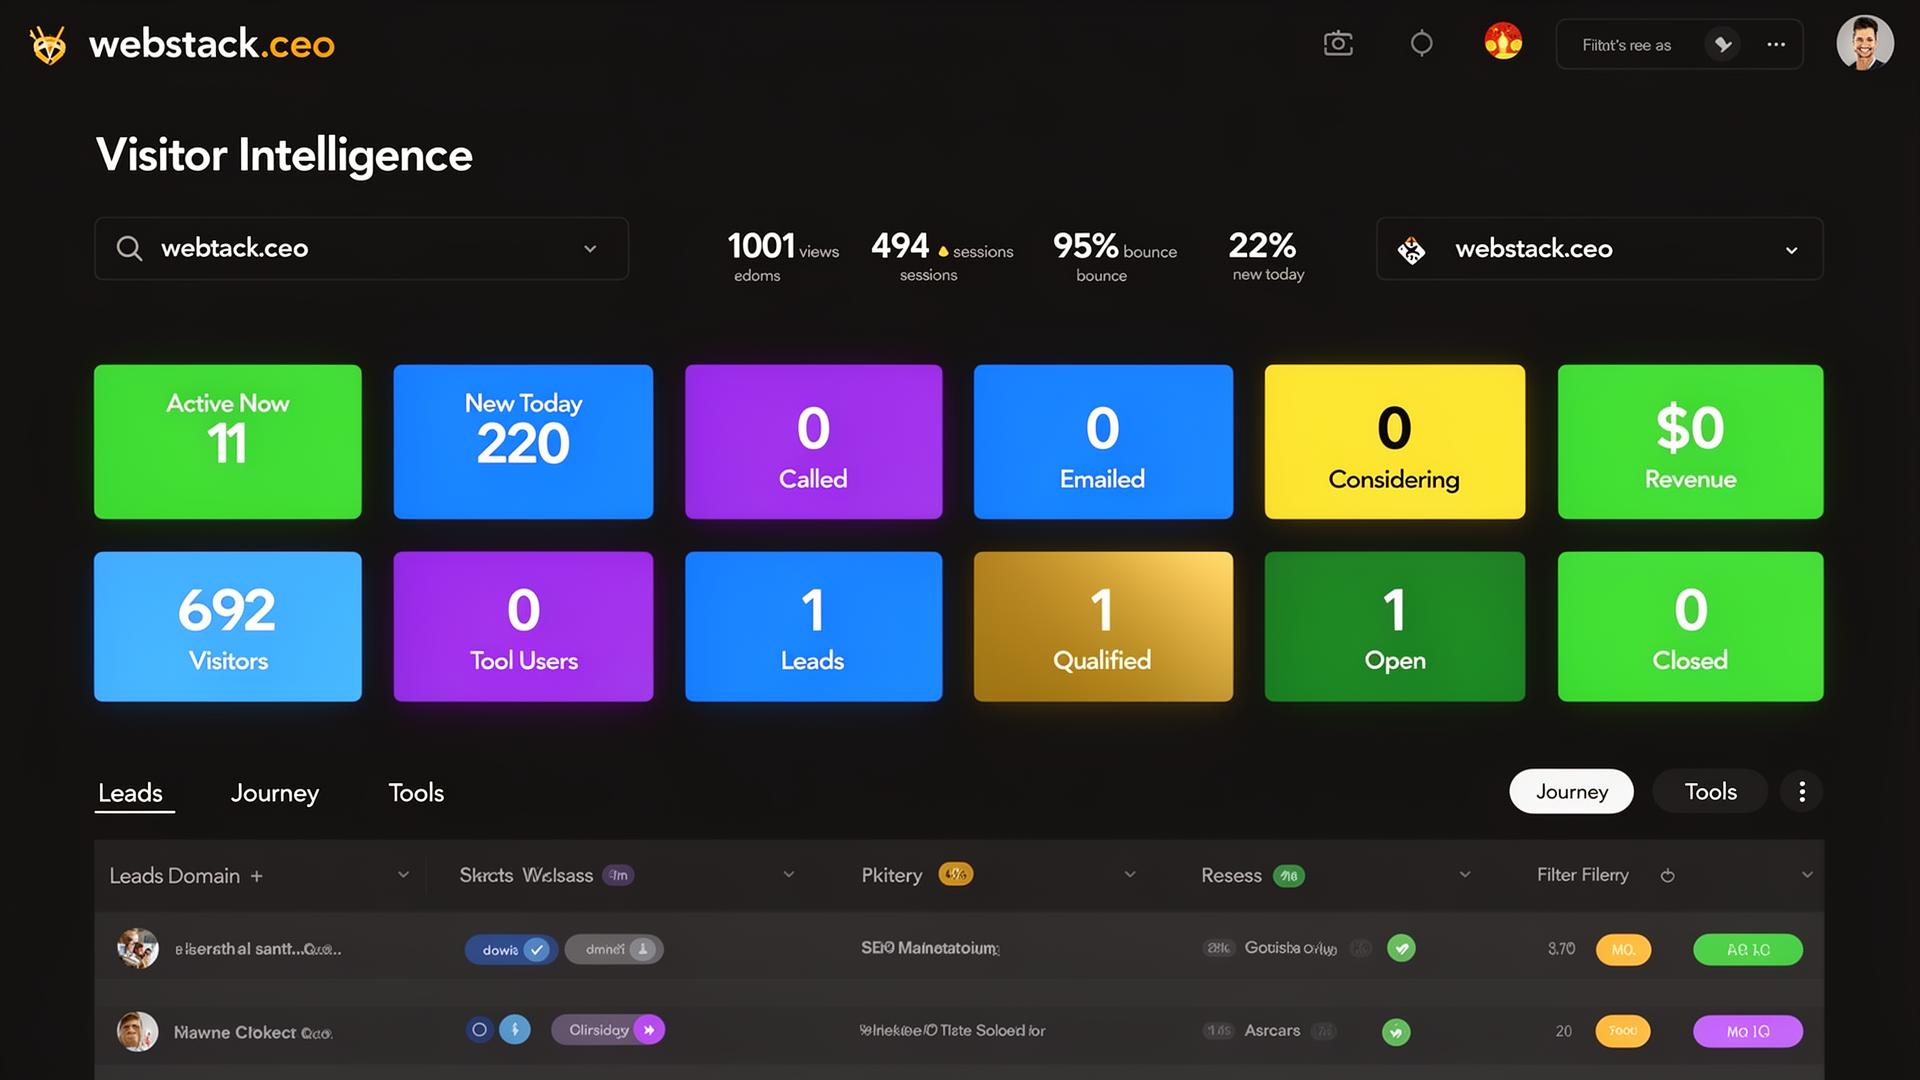
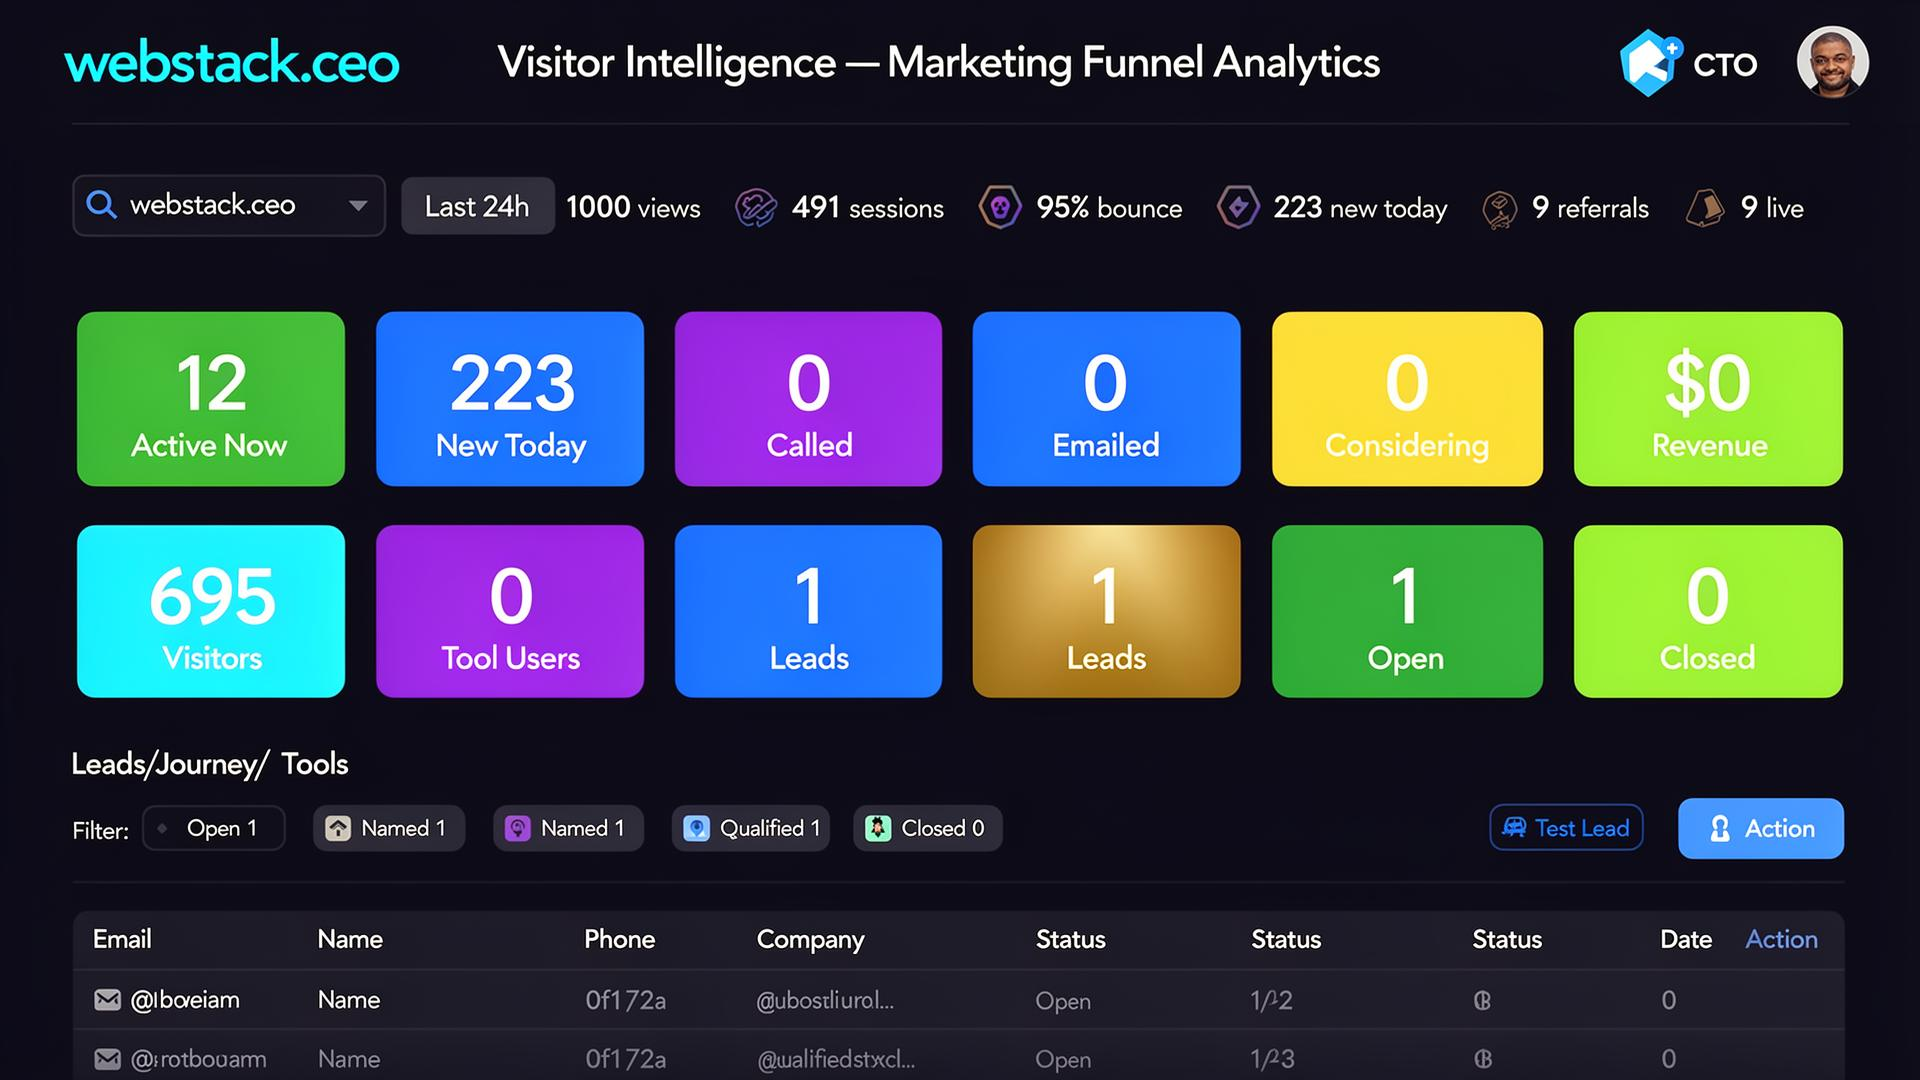
Changes

diff --git a/src/pages/learn/VisitorIntelligenceGuide.tsx b/src/pages/learn/VisitorIntelligenceGuide.tsx
@@ -17,7 +17,9 @@ import GlossaryLegend from "@/components/ui/glossary-legend";
 import GuideFeatureLink from "@/components/ui/guide-feature-link";
 import GlossaryTooltip from "@/components/ui/glossary-tooltip";
 import { getTermsByGuide } from "@/data/glossaryData";
-import dashboardScreenshot from "@/assets/visitor-intelligence-dashboard.png";
+import { useTheme } from "next-themes";
+import dashboardScreenshotDark from "@/assets/visitor-intelligence-dashboard.png";
+import dashboardScreenshotLight from "@/assets/visitor-intelligence-dashboard-light.png";
 
 // Get terms linked to this guide from shared glossary
 const visitorIntelligenceTerms = getTermsByGuide("/learn/visitor-intelligence-guide").map(t => ({
@@ -27,6 +29,9 @@ const visitorIntelligenceTerms = getTermsByGuide("/learn/visitor-intelligence-gu
 }));
 
 const VisitorIntelligenceGuide = () => {
+  const { theme } = useTheme();
+  const dashboardScreenshot = theme === 'light' ? dashboardScreenshotLight : dashboardScreenshotDark;
+  
   return (
     <div className="min-h-screen bg-background">
       <SEO

diff --git a/src/pages/features/VisitorIntelligence.tsx b/src/pages/features/VisitorIntelligence.tsx
@@ -8,7 +8,9 @@ import ScrollProgress from "@/components/ui/scroll-progress";
 import FeatureBreadcrumb from "@/components/ui/feature-breadcrumb";
 import SEO from "@/components/SEO";
 import QuickMetricCheck from "@/components/QuickMetricCheck";
-import dashboardScreenshot from "@/assets/visitor-intelligence-dashboard.png";
+import { useTheme } from "next-themes";
+import dashboardScreenshotDark from "@/assets/visitor-intelligence-dashboard.png";
+import dashboardScreenshotLight from "@/assets/visitor-intelligence-dashboard-light.png";
 
 const benefits = [
   { icon: Building2, title: "Company Profiles", description: "See detailed company information for every identified visitor." },
@@ -20,6 +22,9 @@ const benefits = [
 ];
 
 const VisitorIntelligence = () => {
+  const { theme } = useTheme();
+  const dashboardScreenshot = theme === 'light' ? dashboardScreenshotLight : dashboardScreenshotDark;
+  
   return (
     <div className="min-h-screen bg-background">
       <SEO
